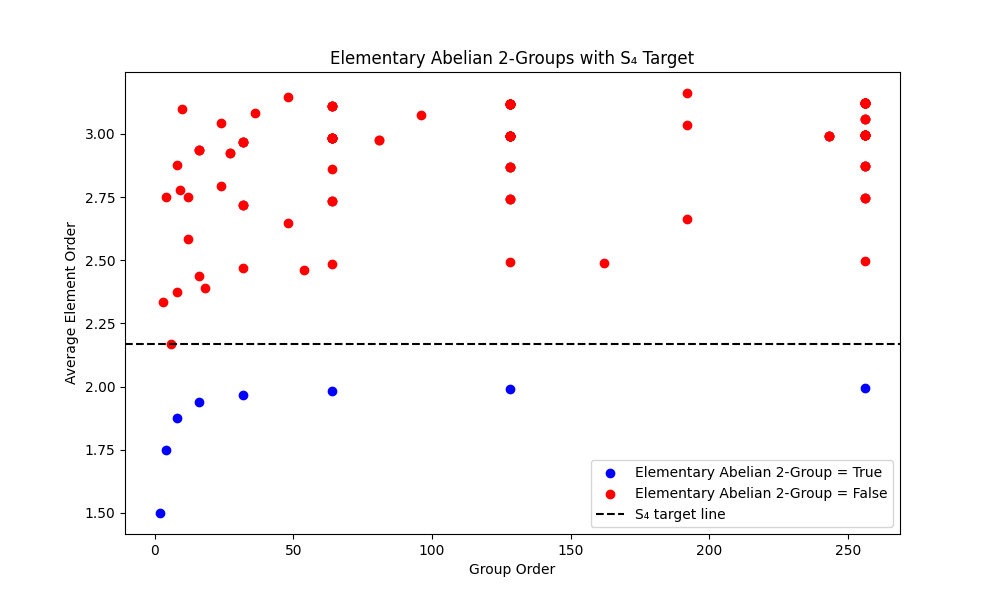
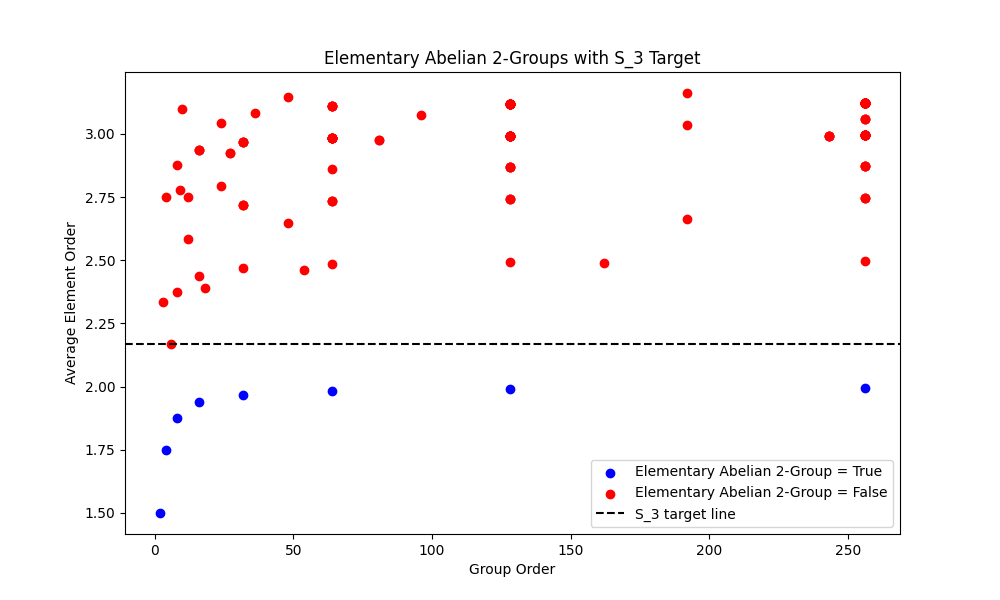
last edits

Changed region(s): [[0.62, 0.78, 0.899, 0.87], [0.31, 0.06, 0.713, 0.12]]

diff --git a/plots_elem_abel.py b/plots_elem_abel.py
@@ -15,10 +15,10 @@ plt.scatter(df[df["isElemAbel2"]=="false"]["GroupOrder"],
             color="red", label="Elementary Abelian 2-Group = False")
 
 s4_avg_order = df[df["GroupName"]=="S3"]["AvgElementOrder"].values[0]  # Replace S3 with S4 if present
-plt.axhline(y=s4_avg_order, color="black", linestyle="--", label="S₄ target line")
+plt.axhline(y=s4_avg_order, color="black", linestyle="--", label="S_3 target line")
 
 plt.xlabel("Group Order")
 plt.ylabel("Average Element Order")
-plt.title("Elementary Abelian 2-Groups with S₄ Target")
+plt.title("Elementary Abelian 2-Groups with S_3 Target")
 plt.legend()
 plt.show()
